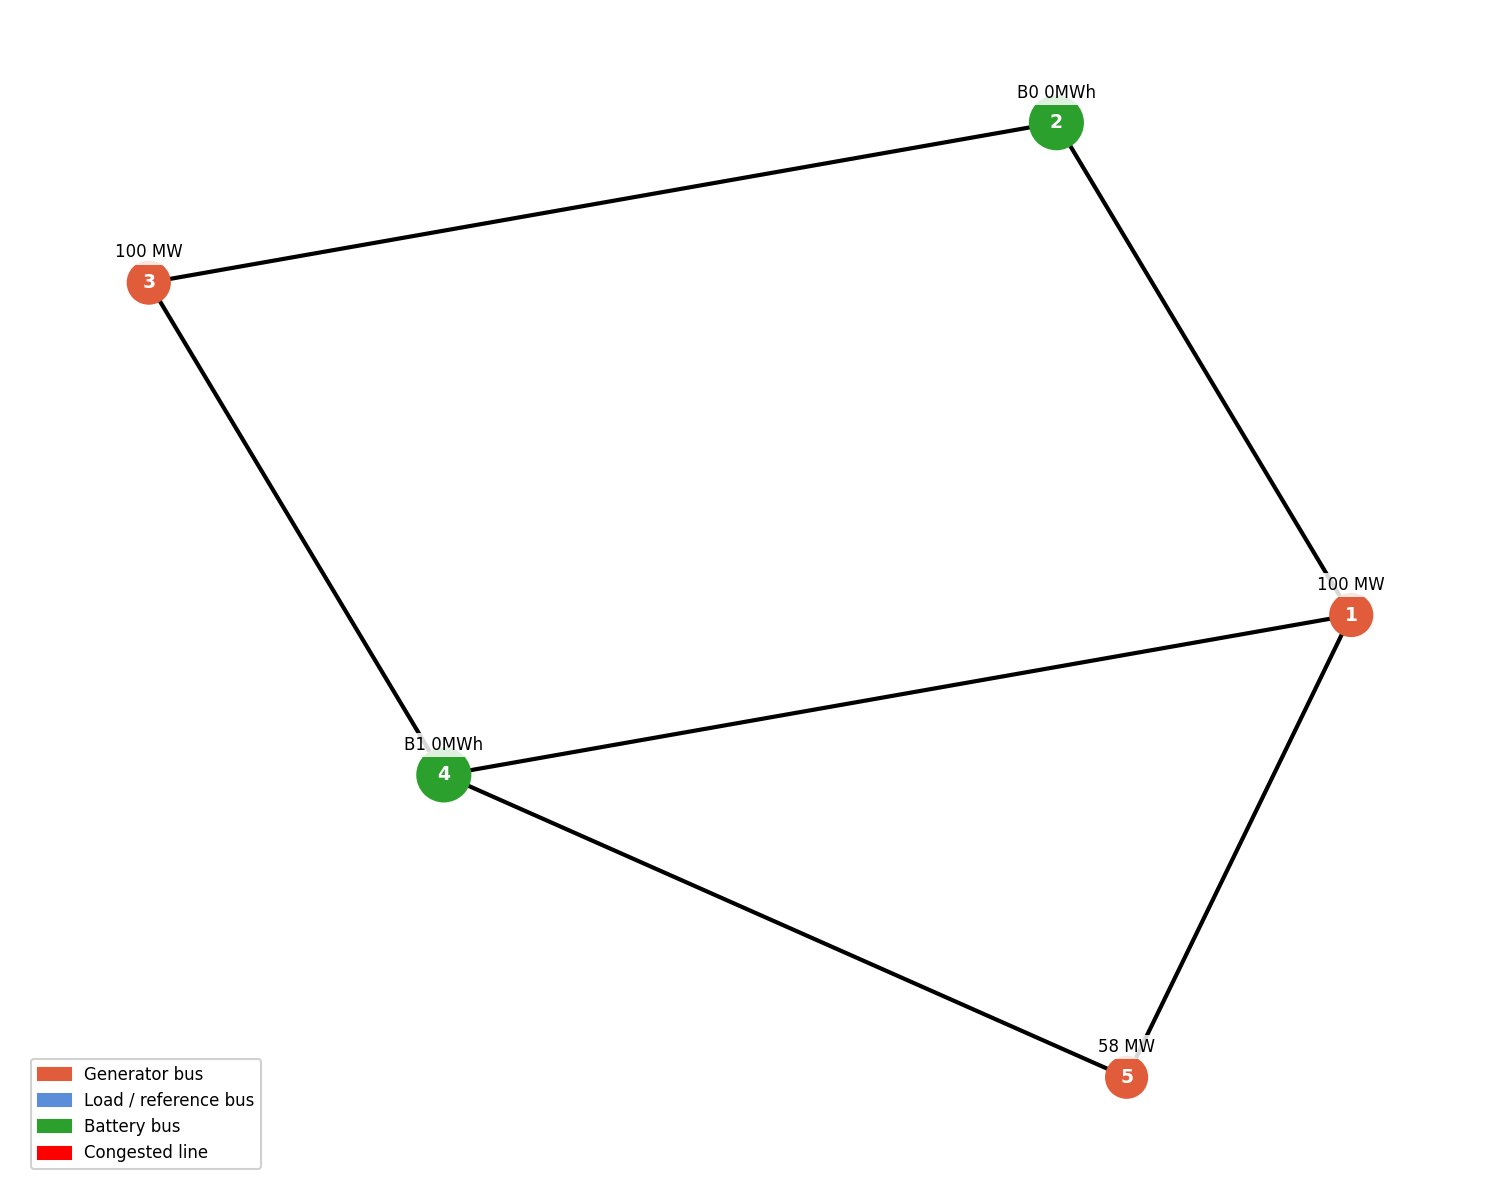
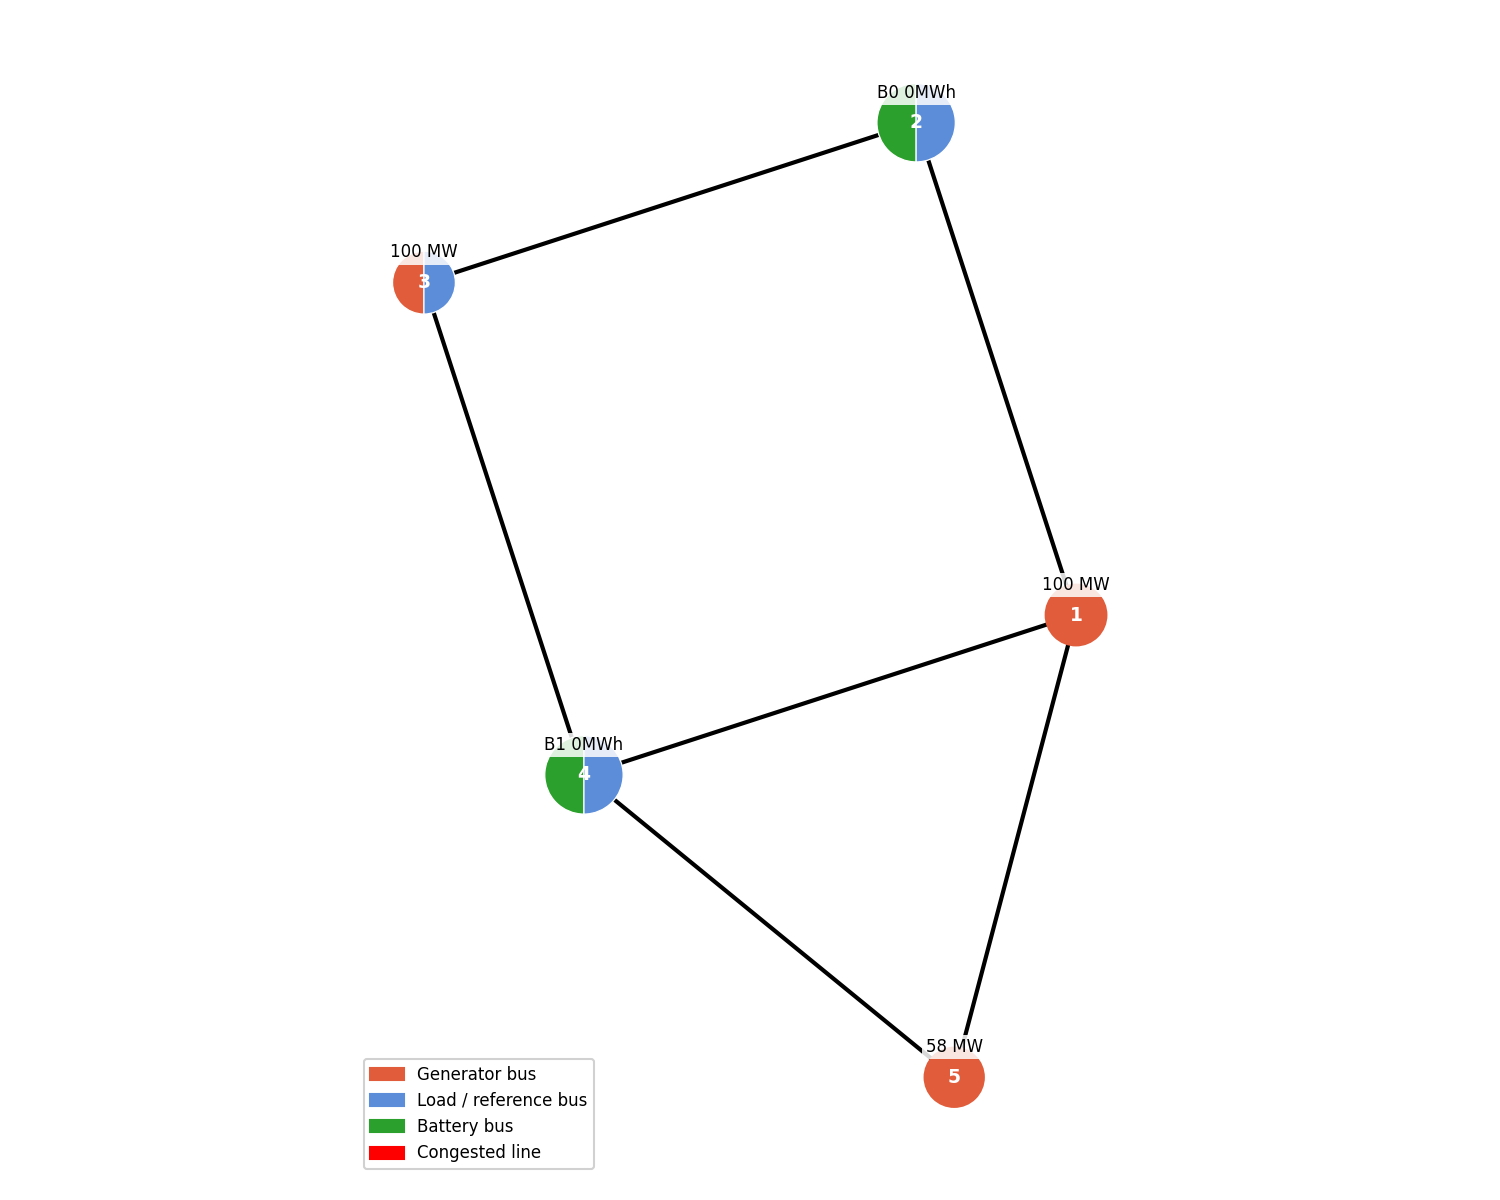
fix: ED solver hang — HiGHS QP non-termination on degenerate battery placements
Quantum siting runs stalled indefinitely in the classical refinement stage:
HiGHS's QP path spins forever at 100% CPU when the battery placement leaves
a degenerate flat optimum. Root cause: battery charge/discharge carries no
objective cost and leftover SoC has no terminal value, so simultaneous
charge+discharge (wasting stored energy) is exactly free — any amount of
pointless cycling is equally optimal. Efficiency does not prevent this:
cancelling flows net to zero injection, so no extra generation is bought,
and the energy lost from the SoC was worth $0 in short/low-demand horizons.
The stuck worker also survived Ctrl-C (wedged in native code), leaving
orphan processes pinned at 100% CPU.

Fixes (solvers/ed.py):
- Tiny battery throughput penalty (1e-4 $/MW) breaks the degeneracy at the
  source — unique optimum; reported costs unaffected (computed from
  generator dispatch only)
- Clarabel is now the primary QP solver (solves the pathological cases in
  0.1-0.5s; tight tolerances so battery variables return clean zeros)
- HiGHS demoted to fallback with a hard 30s time limit — a silent hang is
  structurally impossible; SCIP remains last resort

solvers/quantum_siting.py:
- Same Clarabel-first + time-limited-HiGHS guard for the shadow-price OPF
  (same QP class, same hang risk)
- evaluate_candidates pool uses spawn instead of fork: not the root cause,
  but fork()ing a CUDA-active parent after GPU statevector sampling is
  unsafe; spawn is cheap insurance
[…]

diff --git a/quantum-storage-siting/solvers/ed.py b/quantum-storage-siting/solvers/ed.py
@@ -128,13 +128,36 @@ def run_ed(grid, generators, batteries, gen_locs, bat_locs, T):
     # ------------------------------------------------------------------
     # Solve
     # ------------------------------------------------------------------
+    # Tiny battery throughput penalty: charge/discharge is otherwise free in
+    # the objective, leaving a degenerate flat optimum — interior-point
+    # solvers then return small simultaneous charge+discharge, and HiGHS's QP
+    # path can fail to terminate on the flat face. 1e-4 $/MW is far below any
+    # real cost and does not affect reported costs (computed from dispatch).
+    objective_terms.append(1e-4 * (cp.sum(r_plus) + cp.sum(r_minus)))
     objective = cp.Minimize(cp.sum(objective_terms))
     prob = cp.Problem(objective, constraints)
 
-    try:
-        prob.solve(solver="HIGHS", verbose=False)
-    except cp.error.SolverError:
-        prob.solve(solver="SCIP", verbose=False)
+    # Clarabel first: HiGHS's QP path can spin forever at 100% CPU on this
+    # problem class (battery charge/discharge carries no objective cost, so
+    # some placements leave a degenerate flat optimal face). Clarabel's
+    # interior-point method terminates reliably. HiGHS stays as a fallback
+    # with a hard time limit so a hang can never block the pipeline again.
+    # Tight Clarabel tolerances: its interior-point solutions otherwise carry
+    # ~1e-3 MW fuzz on the battery variables (charge and discharge both
+    # slightly positive), which downstream checks read as simultaneous
+    # charge/discharge.
+    for solver_name, solver_opts in (
+        ("CLARABEL", {"tol_gap_abs": 1e-10, "tol_gap_rel": 1e-10,
+                      "tol_feas": 1e-10}),
+        ("HIGHS", {"time_limit": 30.0}),
+        ("SCIP", {}),
+    ):
+        try:
+            prob.solve(solver=solver_name, verbose=False, **solver_opts)
+        except cp.error.SolverError:
+            continue
+        if prob.status in ("optimal", "optimal_inaccurate"):
+            break
 
     if prob.status not in ("optimal", "optimal_inaccurate"):
         raise RuntimeError(

diff --git a/quantum-storage-siting/solvers/quantum_siting.py b/quantum-storage-siting/solvers/quantum_siting.py
@@ -94,7 +94,12 @@ def _compute_shadow_prices(grid, generators: list[dict], T: int) -> np.ndarray:
             obj_terms.append(a * cp.sum_squares(p[g, t]) + b * p[g, t] + c)
 
     prob = cp.Problem(cp.Minimize(cp.sum(obj_terms)), constraints)
-    prob.solve(solver="HIGHS", verbose=False)
+    # Clarabel first — HiGHS's QP path can hang on degenerate cases (see ed.py);
+    # the time limit on the fallback guarantees this setup phase never blocks.
+    try:
+        prob.solve(solver="CLARABEL", verbose=False)
+    except cp.error.SolverError:
+        prob.solve(solver="HIGHS", verbose=False, time_limit=30.0)
 
     if prob.status not in ("optimal", "optimal_inaccurate"):
         _dbg.warning("No-battery OPF status=%s — congestion signal zeroed", prob.status)
@@ -660,7 +665,12 @@ def evaluate_candidates(
     Returns list of (bat_locs, commitment, true_cost, result_obj).
     Candidates are evaluated in parallel using all available CPU cores.
     second_stage: "ed" | "uc"
+
+    Workers use the "spawn" start method: the parent holds an active CUDA
+    context after GPU statevector sampling, and fork()ing a CUDA-active
+    process intermittently deadlocks the child (fork is unsafe with CUDA).
     """
+    import multiprocessing
     from concurrent.futures import ProcessPoolExecutor
     from solvers.siting_benders import _GridData
 
@@ -683,7 +693,8 @@ def evaluate_candidates(
 
     n_workers = min(len(work_items), os.cpu_count() or 1)
     results = []
-    with ProcessPoolExecutor(max_workers=n_workers) as pool:
+    with ProcessPoolExecutor(max_workers=n_workers,
+                             mp_context=multiprocessing.get_context("spawn")) as pool:
         for outcome in pool.map(_eval_one, work_items):
             if outcome is not None:
                 bat_locs, commitment, true_cost, result_obj = outcome